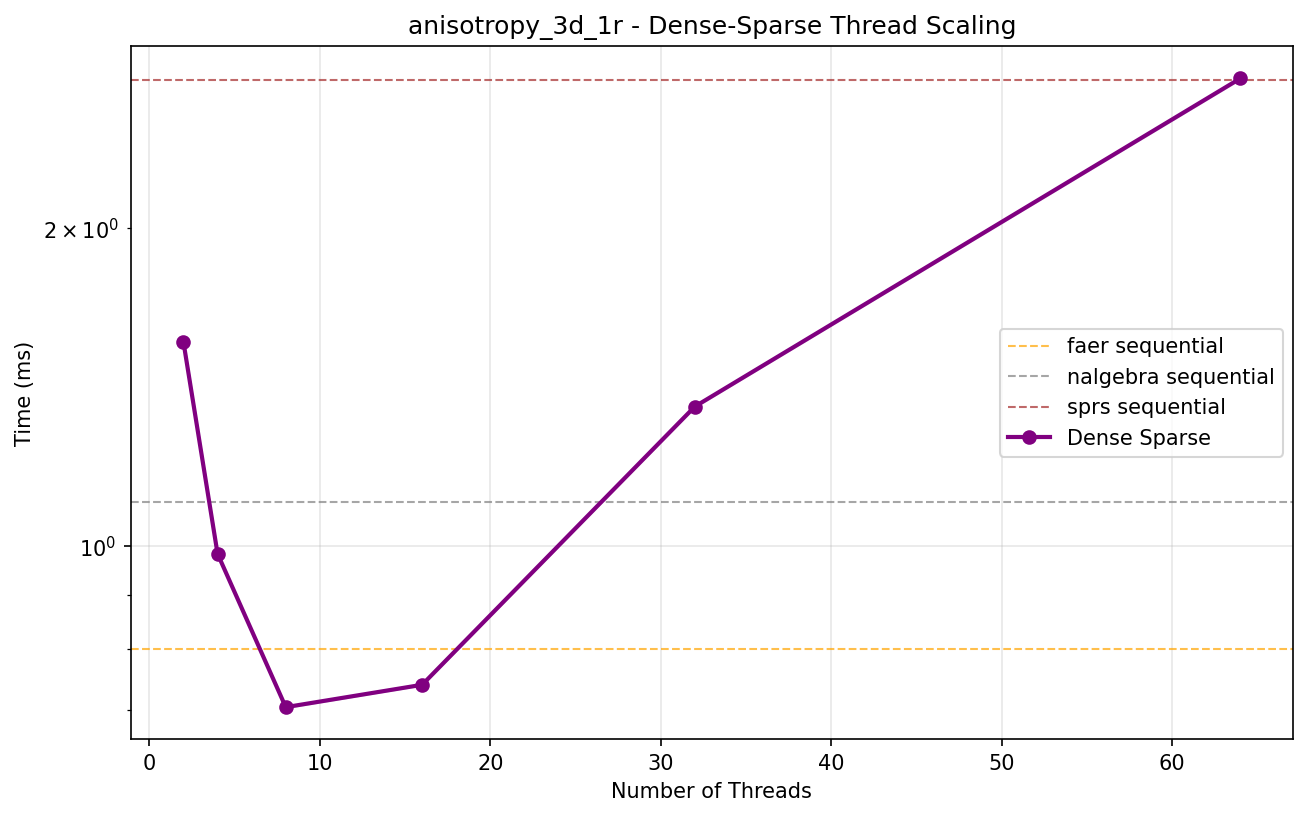
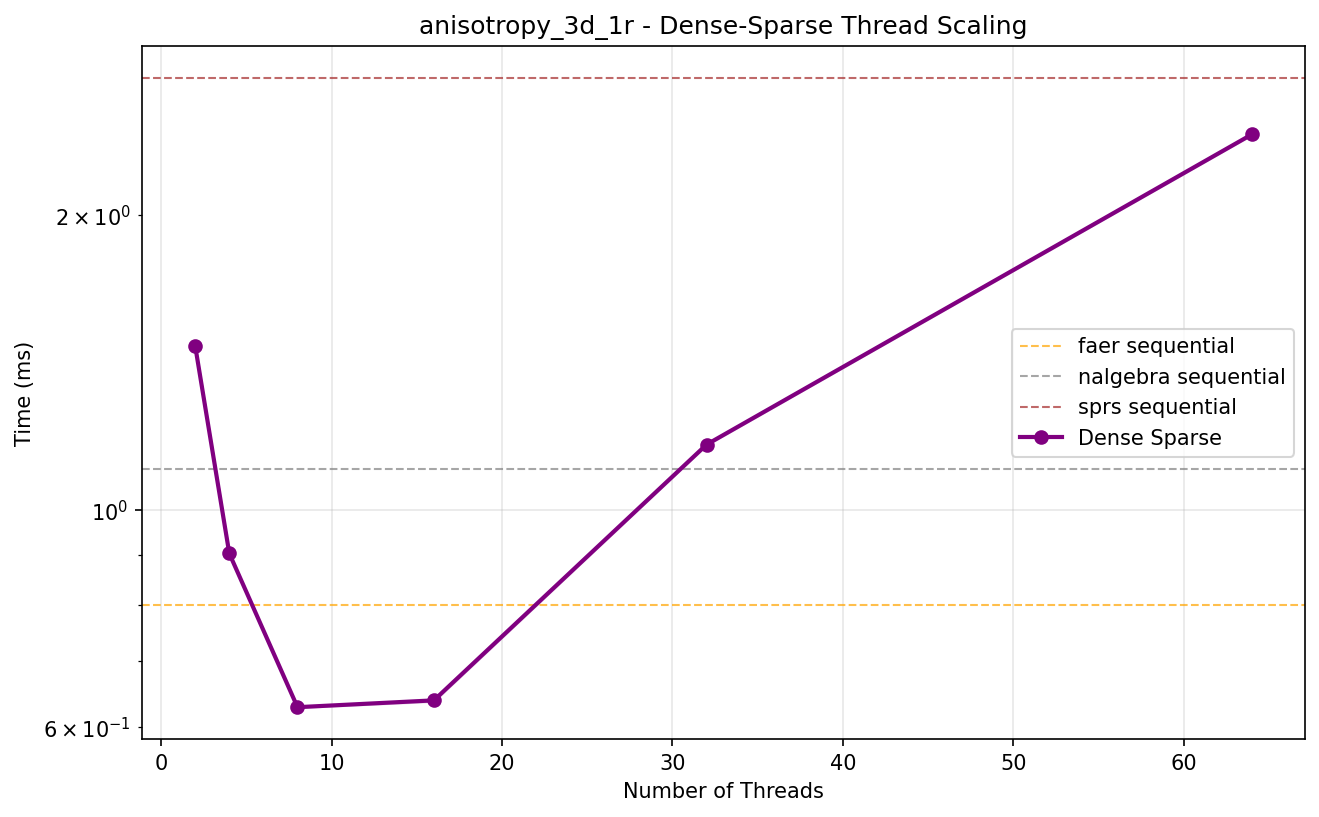
updated results after merge improvement

diff --git a/BENCHMARK_RESULTS.md b/BENCHMARK_RESULTS.md
@@ -57,77 +57,77 @@
 
 | Matrix | Dimensions | Non-zeros | 2 Threads | 4 Threads | 8 Threads | 16 Threads | 32 Threads | 64 Threads |
 |--------|------------|-----------|-----------:|-----------:|-----------:|-----------:|-----------:|-----------:|
-| **anisotropy_3d_1r** | 84315x84315 | 1,373,557 | **1.423 ms** | 1.608 ms | 1.846 ms | 5.183 ms | 9.425 ms | 18.056 ms |
-| **boneS01_M** | 127224x127224 | 2,238,384 | **1.681 ms** | 2.391 ms | 1.773 ms | 6.652 ms | 13.074 ms | 25.180 ms |
-| **boneS01** | 127224x127224 | 5,516,602 | 3.007 ms | **1.706 ms** | 2.527 ms | 5.996 ms | 13.173 ms | 25.150 ms |
-| **Ga3As3H12** | 61349x61349 | 5,970,947 | 2.741 ms | **1.618 ms** | 1.724 ms | 3.902 ms | 7.232 ms | 14.017 ms |
-| **rajat30** | 643994x643994 | 6,175,244 | 10.083 ms | **9.675 ms** | 16.204 ms | 23.940 ms | 47.405 ms | 73.078 ms |
-| **m_t1** | 97578x97578 | 9,753,570 | 4.136 ms | **2.183 ms** | 2.780 ms | 5.144 ms | 10.499 ms | 20.418 ms |
-| **anisotropy_3d_2r** | 650621x650621 | 10,895,827 | **10.203 ms** | 11.030 ms | 17.117 ms | 31.243 ms | 48.747 ms | 74.118 ms |
-| **SiO2** | 155331x155331 | 11,283,503 | 5.544 ms | **4.500 ms** | 4.505 ms | 8.091 ms | 15.693 ms | 29.410 ms |
-| **pwtk** | 217918x217918 | 11,524,432 | 5.669 ms | **4.869 ms** | 5.845 ms | 9.560 ms | 21.260 ms | 37.996 ms |
-| **anisotropy_2d** | 1313281x1313281 | 11,763,231 | **15.992 ms** | 17.215 ms | 29.596 ms | 46.397 ms | 67.757 ms | 87.176 ms |
-| **kkt_power** | 2063494x2063494 | 12,771,361 | **18.571 ms** | 24.969 ms | 42.206 ms | 58.943 ms | 89.364 ms | 103.787 ms |
-| **crankseg_2** | 63838x63838 | 14,148,858 | 5.502 ms | 3.638 ms | **2.830 ms** | 4.048 ms | 7.805 ms | 14.608 ms |
-| **Freescale2** | 2999349x2999349 | 14,313,235 | **24.630 ms** | 33.728 ms | 52.137 ms | 69.512 ms | 86.582 ms | 106.590 ms |
-| **spe10_0** | 1159366x1159366 | 28,730,252 | **17.520 ms** | 17.672 ms | 27.545 ms | 43.047 ms | 67.635 ms | 85.963 ms |
+| **anisotropy_3d_1r** | 84315x84315 | 1,373,557 | **1.371 ms** | 1.711 ms | 2.723 ms | 5.210 ms | 9.004 ms | 17.376 ms |
+| **boneS01_M** | 127224x127224 | 2,238,384 | **1.609 ms** | 2.059 ms | 3.970 ms | 7.432 ms | 12.982 ms | 24.586 ms |
+| **boneS01** | 127224x127224 | 5,516,602 | 3.023 ms | **2.938 ms** | 4.157 ms | 7.648 ms | 13.659 ms | 25.353 ms |
+| **Ga3As3H12** | 61349x61349 | 5,970,947 | 2.565 ms | **2.111 ms** | 2.537 ms | 3.588 ms | 7.230 ms | 13.408 ms |
+| **rajat30** | 643994x643994 | 6,175,244 | **8.553 ms** | 10.770 ms | 16.005 ms | 31.272 ms | 54.305 ms | 88.519 ms |
+| **m_t1** | 97578x97578 | 9,753,570 | 3.755 ms | **2.467 ms** | 3.434 ms | 6.789 ms | 11.399 ms | 20.883 ms |
+| **anisotropy_3d_2r** | 650621x650621 | 10,895,827 | **10.488 ms** | 11.696 ms | 16.169 ms | 29.390 ms | 54.747 ms | 94.094 ms |
+| **SiO2** | 155331x155331 | 11,283,503 | 5.055 ms | 4.594 ms | **4.412 ms** | 8.550 ms | 17.226 ms | 31.117 ms |
+| **pwtk** | 217918x217918 | 11,524,432 | 5.743 ms | **5.266 ms** | 7.084 ms | 12.819 ms | 22.281 ms | 41.135 ms |
+| **anisotropy_2d** | 1313281x1313281 | 11,763,231 | 11.985 ms | **10.231 ms** | 27.359 ms | 50.681 ms | 82.101 ms | 118.357 ms |
+| **kkt_power** | 2063494x2063494 | 12,771,361 | **22.546 ms** | 30.172 ms | 42.509 ms | 70.074 ms | 136.142 ms | 180.936 ms |
+| **crankseg_2** | 63838x63838 | 14,148,858 | 5.445 ms | **3.470 ms** | 3.491 ms | 5.815 ms | 9.320 ms | 15.548 ms |
+| **Freescale2** | 2999349x2999349 | 14,313,235 | **20.409 ms** | 29.752 ms | 52.805 ms | 85.933 ms | 119.066 ms | 138.199 ms |
+| **spe10_0** | 1159366x1159366 | 28,730,252 | 18.349 ms | **11.596 ms** | 28.486 ms | 51.353 ms | 84.338 ms | 121.798 ms |
 
 # Parallel Thread Scaling Results - Sparse-Dense Multiplication (`merge`)
 
 | Matrix | Dimensions | Non-zeros | 2 Threads | 4 Threads | 8 Threads | 16 Threads | 32 Threads | 64 Threads |
 |--------|------------|-----------|-----------:|-----------:|-----------:|-----------:|-----------:|-----------:|
-| **anisotropy_3d_1r** | 84315x84315 | 1,373,557 | 46.027 ms | 23.698 ms | 13.013 ms | 6.901 ms | **4.272 ms** | 4.636 ms |
-| **boneS01_M** | 127224x127224 | 2,238,384 | 64.197 ms | 33.244 ms | 16.235 ms | 8.315 ms | **5.087 ms** | 5.173 ms |
-| **boneS01** | 127224x127224 | 5,516,602 | 157.532 ms | 79.794 ms | 41.545 ms | 19.376 ms | 9.325 ms | **8.196 ms** |
-| **Ga3As3H12** | 61349x61349 | 5,970,947 | 160.232 ms | 80.540 ms | 44.760 ms | 20.114 ms | 10.431 ms | **8.175 ms** |
-| **rajat30** | 643994x643994 | 6,175,244 | 240.665 ms | 124.560 ms | 65.830 ms | 37.869 ms | 17.760 ms | **10.933 ms** |
-| **m_t1** | 97578x97578 | 9,753,570 | 210.737 ms | 104.975 ms | 52.912 ms | 26.032 ms | 12.509 ms | **8.999 ms** |
-| **anisotropy_3d_2r** | 650621x650621 | 10,895,827 | 572.074 ms | 319.229 ms | 154.326 ms | 71.736 ms | 34.607 ms | **26.129 ms** |
-| **SiO2** | 155331x155331 | 11,283,503 | 345.297 ms | 188.814 ms | 108.915 ms | 49.170 ms | 23.056 ms | **13.946 ms** |
-| **pwtk** | 217918x217918 | 11,524,432 | 285.287 ms | 141.688 ms | 70.195 ms | 36.262 ms | 17.371 ms | **11.454 ms** |
-| **anisotropy_2d** | 1313281x1313281 | 11,763,231 | 507.598 ms | 248.342 ms | 130.764 ms | 68.589 ms | 39.184 ms | **29.473 ms** |
-| **kkt_power** | 2063494x2063494 | 12,771,361 | 716.679 ms | 377.466 ms | 203.521 ms | 104.020 ms | 59.304 ms | **42.749 ms** |
-| **crankseg_2** | 63838x63838 | 14,148,858 | 348.770 ms | 171.245 ms | 81.409 ms | 40.826 ms | 19.112 ms | **12.937 ms** |
-| **Freescale2** | 2999349x2999349 | 14,313,235 | 771.096 ms | 402.567 ms | 232.167 ms | 127.058 ms | 76.204 ms | **56.456 ms** |
-| **spe10_0** | 1159366x1159366 | 28,730,252 | 925.878 ms | 469.055 ms | 240.338 ms | 115.942 ms | 59.656 ms | **45.178 ms** |
+| **anisotropy_3d_1r** | 84315x84315 | 1,373,557 | 19.368 ms | 16.180 ms | 11.952 ms | 6.803 ms | **4.085 ms** | 4.924 ms |
+| **boneS01_M** | 127224x127224 | 2,238,384 | 4.598 ms | 4.889 ms | 4.548 ms | 4.291 ms | **3.965 ms** | 4.847 ms |
+| **boneS01** | 127224x127224 | 5,516,602 | 7.760 ms | 9.157 ms | 8.613 ms | 7.057 ms | **6.532 ms** | 6.778 ms |
+| **Ga3As3H12** | 61349x61349 | 5,970,947 | 25.047 ms | 43.372 ms | 31.562 ms | 17.320 ms | 9.402 ms | **8.179 ms** |
+| **rajat30** | 643994x643994 | 6,175,244 | 72.305 ms | 70.996 ms | 58.045 ms | 34.475 ms | 17.760 ms | **10.933 ms** |
+| **m_t1** | 97578x97578 | 9,753,570 | 17.942 ms | 20.738 ms | 21.015 ms | 17.075 ms | 10.123 ms | **7.836 ms** |
+| **anisotropy_3d_2r** | 650621x650621 | 10,895,827 | 249.225 ms | 181.529 ms | 135.836 ms | 68.648 ms | 38.463 ms | **27.466 ms** |
+| **SiO2** | 155331x155331 | 11,283,503 | 88.396 ms | 100.757 ms | 88.341 ms | 44.669 ms | 21.955 ms | **15.579 ms** |
+| **pwtk** | 217918x217918 | 11,524,432 | 16.649 ms | 19.387 ms | 14.852 ms | 8.394 ms | 7.959 ms | **7.585 ms** |
+| **anisotropy_2d** | 1313281x1313281 | 11,763,231 | 345.457 ms | 287.580 ms | 152.753 ms | 80.072 ms | 47.027 ms | **34.815 ms** |
+| **kkt_power** | 2063494x2063494 | 12,771,361 | 643.982 ms | 318.796 ms | 196.604 ms | 107.975 ms | 64.851 ms | **46.116 ms** |
+| **crankseg_2** | 63838x63838 | 14,148,858 | 173.627 ms | 151.011 ms | 80.460 ms | 40.940 ms | 20.271 ms | **14.430 ms** |
+| **Freescale2** | 2999349x2999349 | 14,313,235 | 392.314 ms | 251.249 ms | 194.513 ms | 127.989 ms | 84.729 ms | **64.194 ms** |
+| **spe10_0** | 1159366x1159366 | 28,730,252 | 56.162 ms | 48.265 ms | 42.193 ms | **39.562 ms** | 41.787 ms | 40.491 ms |
 
 # Parallel Thread Scaling Results - Sparse-Dense Multiplication (`buffer_foreign`)
 
 | Matrix | Dimensions | Non-zeros | 2 Threads | 4 Threads | 8 Threads | 16 Threads | 32 Threads | 64 Threads |
 |--------|------------|-----------|-----------:|-----------:|-----------:|-----------:|-----------:|-----------:|
-| **anisotropy_3d_1r** | 84315x84315 | 1,373,557 | **5.187 ms** | 8.057 ms | 11.470 ms | 17.145 ms | 26.927 ms | 46.329 ms |
-| **boneS01_M** | 127224x127224 | 2,238,384 | 4.530 ms | **4.513 ms** | 6.458 ms | 19.787 ms | 31.899 ms | 50.437 ms |
-| **boneS01** | 127224x127224 | 5,516,602 | 8.865 ms | **7.305 ms** | 8.704 ms | 24.397 ms | 39.757 ms | 62.088 ms |
-| **Ga3As3H12** | 61349x61349 | 5,970,947 | **14.292 ms** | 15.582 ms | 23.906 ms | 30.534 ms | 41.935 ms | 67.292 ms |
+| **anisotropy_3d_1r** | 84315x84315 | 1,373,557 | **5.222 ms** | 8.527 ms | 12.167 ms | 19.195 ms | 30.618 ms | 52.687 ms |
+| **boneS01_M** | 127224x127224 | 2,238,384 | **4.248 ms** | 4.647 ms | 7.146 ms | 22.542 ms | 35.359 ms | 57.210 ms |
+| **boneS01** | 127224x127224 | 5,516,602 | 8.245 ms | **7.410 ms** | 9.370 ms | 28.130 ms | 43.472 ms | 69.782 ms |
+| **Ga3As3H12** | 61349x61349 | 5,970,947 | 13.897 ms | 14.641 ms | **13.717 ms** | 32.556 ms | 44.440 ms | 74.636 ms |
 | **rajat30** | 643994x643994 | 6,175,244 | **15.256 ms** | 16.779 ms | 25.734 ms | 35.870 ms | 50.078 ms | 77.418 ms |
-| **m_t1** | 97578x97578 | 9,753,570 | **13.226 ms** | 21.198 ms | 19.711 ms | 33.413 ms | 43.010 ms | 69.144 ms |
-| **anisotropy_3d_2r** | 650621x650621 | 10,895,827 | 38.050 ms | 26.701 ms | **23.158 ms** | 32.248 ms | 50.332 ms | 76.106 ms |
-| **SiO2** | 155331x155331 | 11,283,503 | **27.920 ms** | 28.469 ms | 30.985 ms | 34.166 ms | 49.020 ms | 75.510 ms |
-| **pwtk** | 217918x217918 | 11,524,432 | 19.879 ms | **18.614 ms** | 20.794 ms | 32.077 ms | 46.124 ms | 71.367 ms |
-| **anisotropy_2d** | 1313281x1313281 | 11,763,231 | 43.877 ms | 31.413 ms | **26.757 ms** | 34.402 ms | 48.894 ms | 76.011 ms |
-| **kkt_power** | 2063494x2063494 | 12,771,361 | 69.628 ms | 47.323 ms | 38.422 ms | **34.839 ms** | 49.889 ms | 78.684 ms |
-| **crankseg_2** | 63838x63838 | 14,148,858 | 34.242 ms | **27.193 ms** | 28.772 ms | 35.958 ms | 46.926 ms | 72.506 ms |
-| **Freescale2** | 2999349x2999349 | 14,313,235 | 66.203 ms | 38.933 ms | **30.083 ms** | 36.412 ms | 50.059 ms | 76.614 ms |
-| **spe10_0** | 1159366x1159366 | 28,730,252 | 42.254 ms | 25.966 ms | **22.690 ms** | 41.291 ms | 61.848 ms | 80.971 ms |
+| **m_t1** | 97578x97578 | 9,753,570 | **12.262 ms** | 14.261 ms | 12.318 ms | 34.898 ms | 50.198 ms | 75.161 ms |
+| **anisotropy_3d_2r** | 650621x650621 | 10,895,827 | 35.956 ms | 26.090 ms | **23.648 ms** | 33.124 ms | 56.546 ms | 83.832 ms |
+| **SiO2** | 155331x155331 | 11,283,503 | 29.702 ms | **28.219 ms** | 34.648 ms | 35.309 ms | 56.430 ms | 86.437 ms |
+| **pwtk** | 217918x217918 | 11,524,432 | 14.939 ms | **13.371 ms** | 20.289 ms | 33.827 ms | 54.904 ms | 80.953 ms |
+| **anisotropy_2d** | 1313281x1313281 | 11,763,231 | 43.148 ms | 31.123 ms | **24.946 ms** | 34.690 ms | 52.760 ms | 83.541 ms |
+| **kkt_power** | 2063494x2063494 | 12,771,361 | 68.377 ms | 47.826 ms | 40.488 ms | **38.801 ms** | 56.933 ms | 88.974 ms |
+| **crankseg_2** | 63838x63838 | 14,148,858 | 33.466 ms | **29.556 ms** | 30.092 ms | 40.194 ms | 54.524 ms | 82.266 ms |
+| **Freescale2** | 2999349x2999349 | 14,313,235 | 65.828 ms | 38.617 ms | **30.304 ms** | 38.491 ms | 53.656 ms | 86.362 ms |
+| **spe10_0** | 1159366x1159366 | 28,730,252 | 38.245 ms | 23.504 ms | **20.241 ms** | 42.629 ms | 68.403 ms | 107.855 ms |
 
 # Parallel Thread Scaling Results - Dense-Sparse Multiplication (`dense_sparse`)
 
 | Matrix | Dimensions | Non-zeros | 2 Threads | 4 Threads | 8 Threads | 16 Threads | 32 Threads | 64 Threads |
 |--------|------------|-----------|-----------:|-----------:|-----------:|-----------:|-----------:|-----------:|
-| **anisotropy_3d_1r** | 84315x84315 | 1,373,557 | 1.560 ms | 983.67 µs | **704.19 µs** | 739.36 µs | 1.356 ms | 2.772 ms |
-| **boneS01_M** | 127224x127224 | 2,238,384 | 2.445 ms | 1.449 ms | 980.10 µs | **870.85 µs** | 1.518 ms | 2.914 ms |
-| **boneS01** | 127224x127224 | 5,516,602 | 6.639 ms | 3.589 ms | 2.033 ms | **1.393 ms** | 1.762 ms | 3.064 ms |
-| **Ga3As3H12** | 61349x61349 | 5,970,947 | 8.799 ms | 4.752 ms | 2.554 ms | **1.555 ms** | 1.597 ms | 2.928 ms |
+| **anisotropy_3d_1r** | 84315x84315 | 1,373,557 | 1.470 ms | 902.24 µs | **628.50 µs** | 638.66 µs | 1.166 ms | 2.419 ms |
+| **boneS01_M** | 127224x127224 | 2,238,384 | 2.336 ms | 1.328 ms | 884.37 µs | **799.72 µs** | 1.299 ms | 2.486 ms |
+| **boneS01** | 127224x127224 | 5,516,602 | 6.463 ms | 3.387 ms | 1.949 ms | **1.424 ms** | 1.875 ms | 2.834 ms |
+| **Ga3As3H12** | 61349x61349 | 5,970,947 | 8.671 ms | 4.746 ms | 2.470 ms | **1.556 ms** | 1.882 ms | 2.881 ms |
 | **rajat30** | 643994x643994 | 6,175,244 | 8.468 ms | 5.518 ms | 3.365 ms | **2.955 ms** | 3.220 ms | 3.951 ms |
-| **m_t1** | 97578x97578 | 9,753,570 | 14.022 ms | 7.249 ms | 3.898 ms | 2.301 ms | **1.947 ms** | 3.154 ms |
-| **anisotropy_3d_2r** | 650621x650621 | 10,895,827 | 12.412 ms | 7.689 ms | 5.225 ms | 4.043 ms | **3.958 ms** | 5.088 ms |
-| **SiO2** | 155331x155331 | 11,283,503 | 15.683 ms | 9.011 ms | 4.834 ms | 2.845 ms | **2.197 ms** | 3.334 ms |
-| **pwtk** | 217918x217918 | 11,524,432 | 14.281 ms | 7.537 ms | 4.217 ms | 2.669 ms | **2.335 ms** | 3.516 ms |
-| **anisotropy_2d** | 1313281x1313281 | 11,763,231 | 14.627 ms | 10.489 ms | 8.403 ms | **7.146 ms** | 7.261 ms | 7.877 ms |
-| **kkt_power** | 2063494x2063494 | 12,771,361 | 20.987 ms | 16.328 ms | 11.260 ms | 10.064 ms | **9.534 ms** | 11.855 ms |
-| **crankseg_2** | 63838x63838 | 14,148,858 | 22.174 ms | 11.298 ms | 5.839 ms | 3.207 ms | **2.366 ms** | 3.264 ms |
-| **Freescale2** | 2999349x2999349 | 14,313,235 | 26.102 ms | 20.602 ms | 15.243 ms | 13.930 ms | **13.751 ms** | 15.512 ms |
-| **spe10_0** | 1159366x1159366 | 28,730,252 | 31.248 ms | 18.012 ms | 11.044 ms | 7.737 ms | **6.655 ms** | 7.586 ms |
+| **m_t1** | 97578x97578 | 9,753,570 | 13.841 ms | 7.250 ms | 3.751 ms | 2.341 ms | **2.033 ms** | 3.484 ms |
+| **anisotropy_3d_2r** | 650621x650621 | 10,895,827 | 12.134 ms | 6.886 ms | 4.349 ms | **4.011 ms** | 4.185 ms | 5.024 ms |
+| **SiO2** | 155331x155331 | 11,283,503 | 15.541 ms | 8.994 ms | 4.630 ms | 2.875 ms | **2.291 ms** | 4.073 ms |
+| **pwtk** | 217918x217918 | 11,524,432 | 13.996 ms | 7.207 ms | 3.847 ms | 2.756 ms | **2.677 ms** | 3.934 ms |
+| **anisotropy_2d** | 1313281x1313281 | 11,763,231 | 13.646 ms | 8.639 ms | **6.368 ms** | 6.605 ms | 6.881 ms | 7.199 ms |
+| **kkt_power** | 2063494x2063494 | 12,771,361 | 19.771 ms | 13.255 ms | **9.704 ms** | 10.493 ms | 12.974 ms | 10.186 ms |
+| **crankseg_2** | 63838x63838 | 14,148,858 | 22.075 ms | 11.281 ms | 5.737 ms | 3.227 ms | **2.522 ms** | 3.700 ms |
+| **Freescale2** | 2999349x2999349 | 14,313,235 | 25.300 ms | 18.012 ms | 15.162 ms | **14.368 ms** | 20.249 ms | 16.501 ms |
+| **spe10_0** | 1159366x1159366 | 28,730,252 | 30.879 ms | 17.074 ms | 9.950 ms | **8.903 ms** | 10.061 ms | 9.448 ms |
 
 ## Thread Scaling Plots
 
@@ -262,15 +262,18 @@ Frequency boost:                      enabled
 CPU(s) scaling MHz:                   99%
 CPU max MHz:                          3718.0659
 CPU min MHz:                          1500.0000
-BogoMIPS:                             4892.31
-Flags:                                fpu vme de pse tsc msr pae mce cx8 apic sep mtrr pge mca cmov pat pse36 clflush mmx fxsr sse sse2 ht syscall nx mmxext fxsr_opt pdpe1gb rdtscp lm constant_tsc rep_good amd_lbr_v2 nopl nonstop_tsc cpuid extd_apicid aperfmperf rapl pni pclmulqdq monitor ssse3 fma cx16 pcid sse4_1 sse4_2 x2apic movbe popcnt aes xsave avx f16c rdrand lahf_lm cmp_legacy svm extapic cr8_legacy abm sse4a misalignsse 3dnowprefetch osvw ibs skinit wdt tce topoext perfctr_core perfctr_nb bpext perfctr_llc mwaitx cpb cat_l3 cdp_l3 hw_pstate ssbd mba perfmon_v2 ibrs ibpb stibp ibrs_enhanced vmmcall fsgsbase bmi1 avx2 smep bmi2 erms invpcid cqm rdt_a avx512f avx512dq rdseed adx smap avx512ifma clflushopt clwb avx512cd sha_ni avx512bw avx512vl xsaveopt xsavec xgetbv1 xsaves cqm_llc cqm_occup_llc cqm_mbm_total cqm_mbm_local avx512_bf16 clzero irperf xsaveerptr rdpru wbnoinvd amd_ppin cppc arat npt lbrv svm_lock nrip_save tsc_scale vmcb_clean flushbyasid decodeassists pausefilter pfthreshold avic v_vmsave_vmload vgif x2avic v_spec_ctrl vnmi avx512vbmi umip pku ospke avx512_vbmi2 gfni vaes vpclmulqdq avx512_vnni avx512_bitalg avx512_vpopcntdq la57 rdpid overflow_recov succor smca fsrm flush_l1d debug_swap
+BogoMIPS:                             4892.63
+Flags:                                fpu vme de pse tsc msr pae mce cx8 apic sep mtrr pge mca cmov pat pse36 clflush mmx fxsr sse sse2 ht syscall nx mmxext fxsr_opt pdpe1gb rdtscp lm constant_tsc rep_good amd_lbr_v2 nopl nonstop_tsc cpuid extd_apicid aperfmperf rapl pni pclmulqdq monitor ssse3 fma cx16 pcid sse4_1 sse4_2 movbe popcnt aes xsave avx f16c rdrand lahf_lm cmp_legacy svm extapic cr8_legacy abm sse4a misalignsse 3dnowprefetch osvw ibs skinit wdt tce topoext perfctr_core perfctr_nb bpext perfctr_llc mwaitx cpb cat_l3 cdp_l3 hw_pstate ssbd mba perfmon_v2 ibrs ibpb stibp ibrs_enhanced vmmcall fsgsbase bmi1 avx2 smep bmi2 erms invpcid cqm rdt_a avx512f avx512dq rdseed adx smap avx512ifma clflushopt clwb avx512cd sha_ni avx512bw avx512vl xsaveopt xsavec xgetbv1 xsaves cqm_llc cqm_occup_llc cqm_mbm_total cqm_mbm_local avx512_bf16 clzero irperf xsaveerptr rdpru wbnoinvd amd_ppin cppc arat npt lbrv svm_lock nrip_save tsc_scale vmcb_clean flushbyasid decodeassists pausefilter pfthreshold avic v_vmsave_vmload vgif x2avic v_spec_ctrl vnmi avx512vbmi umip pku ospke avx512_vbmi2 gfni vaes vpclmulqdq avx512_vnni avx512_bitalg avx512_vpopcntdq la57 rdpid overflow_recov succor smca fsrm flush_l1d debug_swap
 Virtualization:                       AMD-V
 L1d cache:                            2 MiB (64 instances)
 L1i cache:                            2 MiB (64 instances)
 L2 cache:                             64 MiB (64 instances)
 L3 cache:                             256 MiB (8 instances)
-NUMA node(s):                         1
-NUMA node0 CPU(s):                    0-63
+NUMA node(s):                         4
+NUMA node0 CPU(s):                    0-15
+NUMA node1 CPU(s):                    16-31
+NUMA node2 CPU(s):                    32-47
+NUMA node3 CPU(s):                    48-63
 Vulnerability Gather data sampling:   Not affected
 Vulnerability Itlb multihit:          Not affected
 Vulnerability L1tf:                   Not affected
